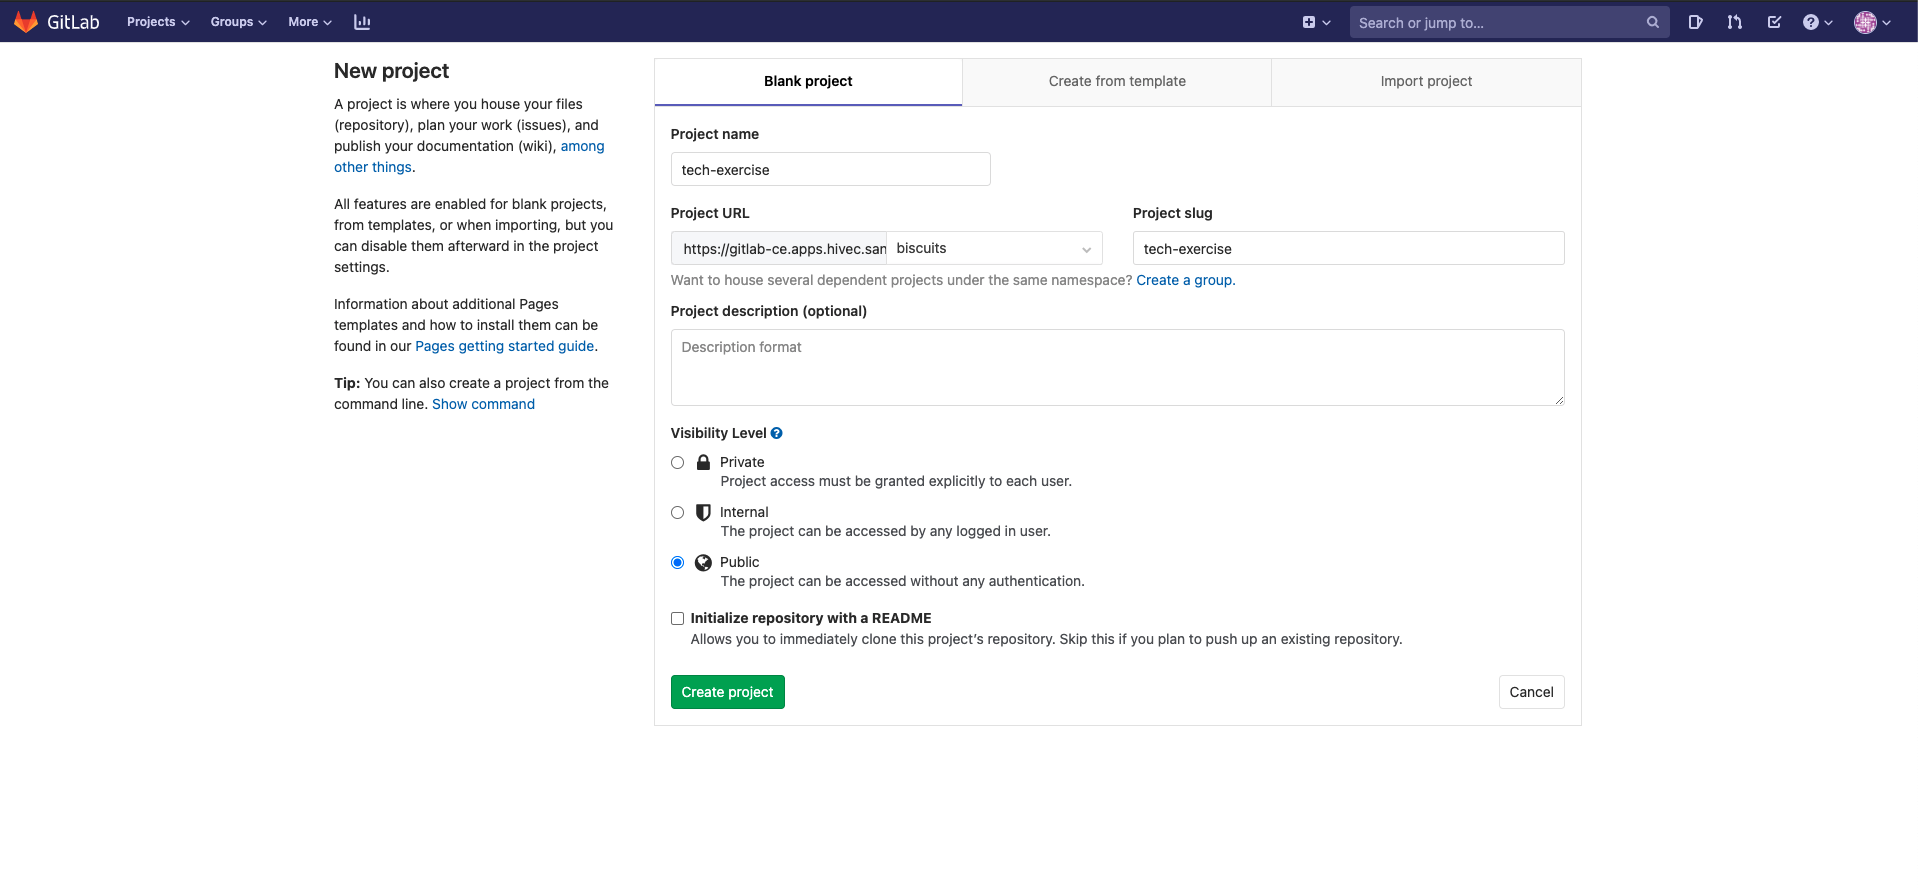
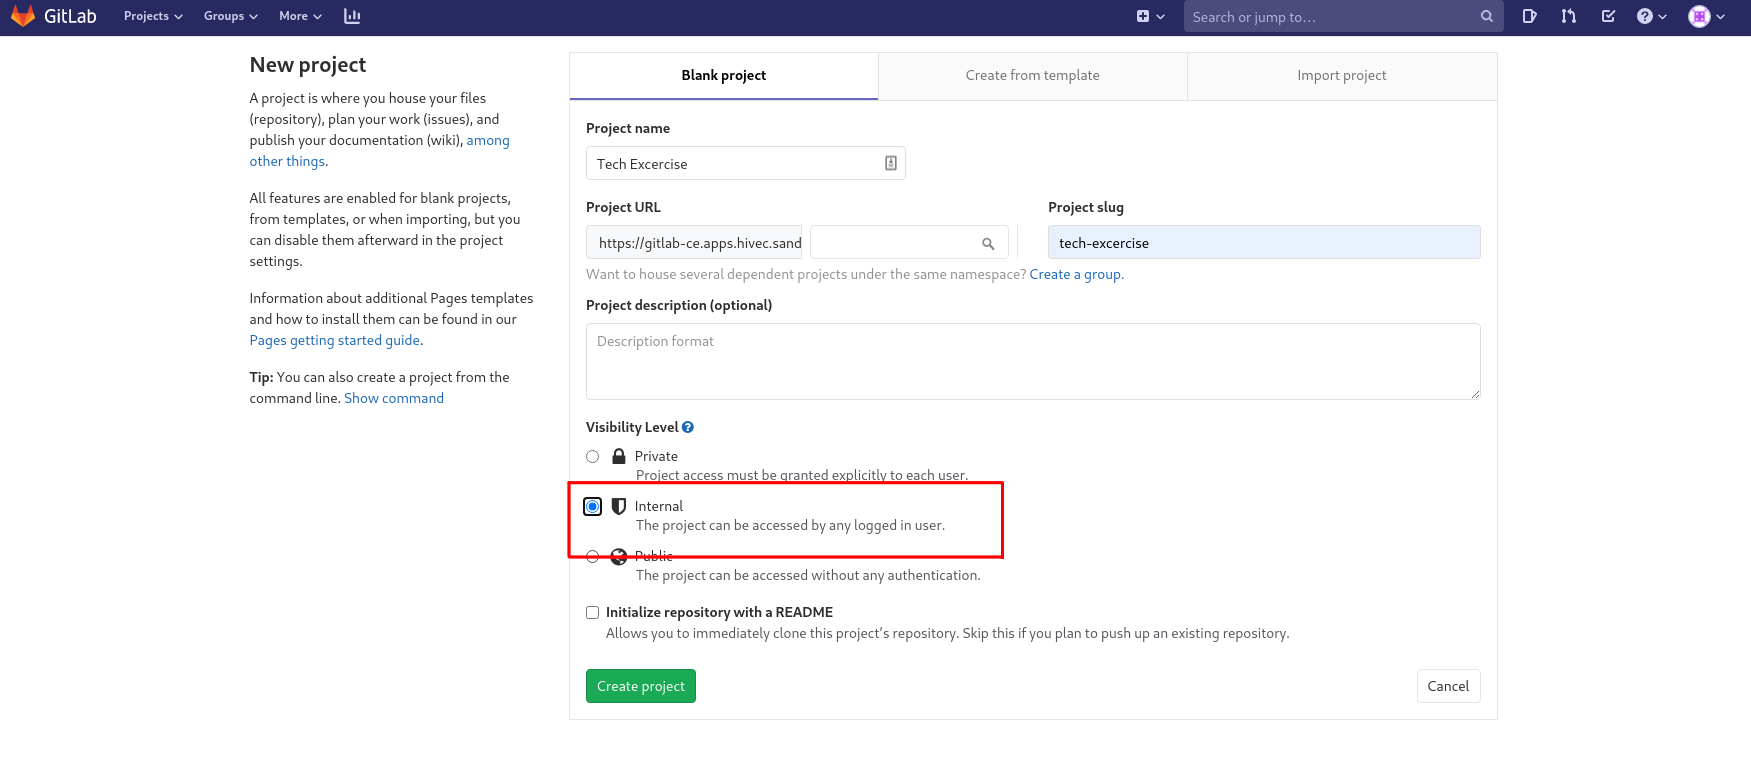
🍄 use Internal for visibility level 🍄

diff --git a/docs/1-the-manual-menace/3-ubiquitous-journey.md b/docs/1-the-manual-menace/3-ubiquitous-journey.md
@@ -7,13 +7,13 @@ Extensible, traceable, auditable ...
 1. Log into GitLab (url provided by your facilitator) with your credentials. We need to create a group in GitLab as <TEAM_NAME>.  Click "Create a group" on the screen:
 ![gitlab-initial-login](images/gitlab-initial-login.png)
 
-2. Put your <TEAM_NAME> as the group name, select `Public` for Visibility level, and hit Create group. This is so we can easily share code and view other teams' activity.
+2. Put your <TEAM_NAME> as the group name, select `Internal` for Visibility level, and hit Create group. This is so we can easily share code and view other teams' activity.
 ![gitlab-create-group](images/gitlab-create-group.png)
 
 3. Now lets create the git repository that we are going to use for <span style="color:purple;" >GIT</span>Ops purposes The `tech-exercise` will serve as a mono-repo holding both our tooling configuration and the application definitions. Hit `Create a project` button on the left hand side
 ![gitlab-new-project](images/gitlab-new-project.png)
  
-4. On the new view, use `tech-exercise` as Project Name, select `Public` for Visibility level, then hit Create project. Make sure the project is in the group you created previously and not the username's.
+4. On the new view, use `tech-exercise` as Project Name, select `Internal` for Visibility level, then hit Create project. Make sure the project is in the group you created previously and not the username's.
 ![gitlab-new-project](images/gitlab-new-project-2.png)
 
 5. Back in your CodeReady Workspace, open a terminal if you have not got one open. Let's push our code to the GitLab server
